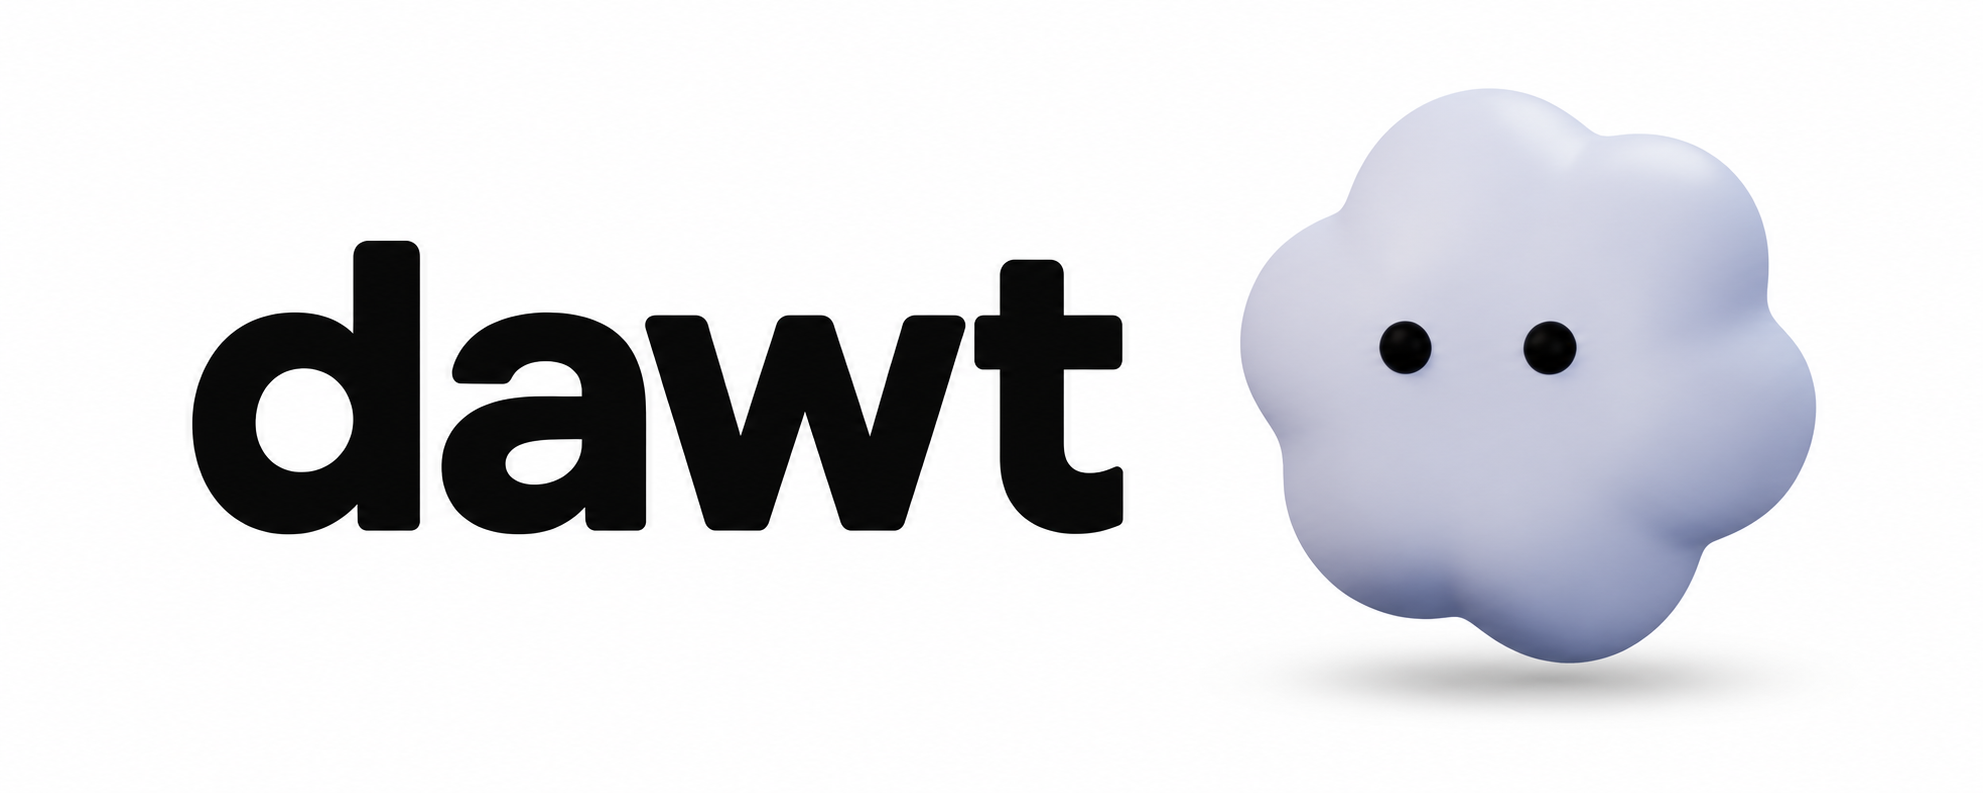
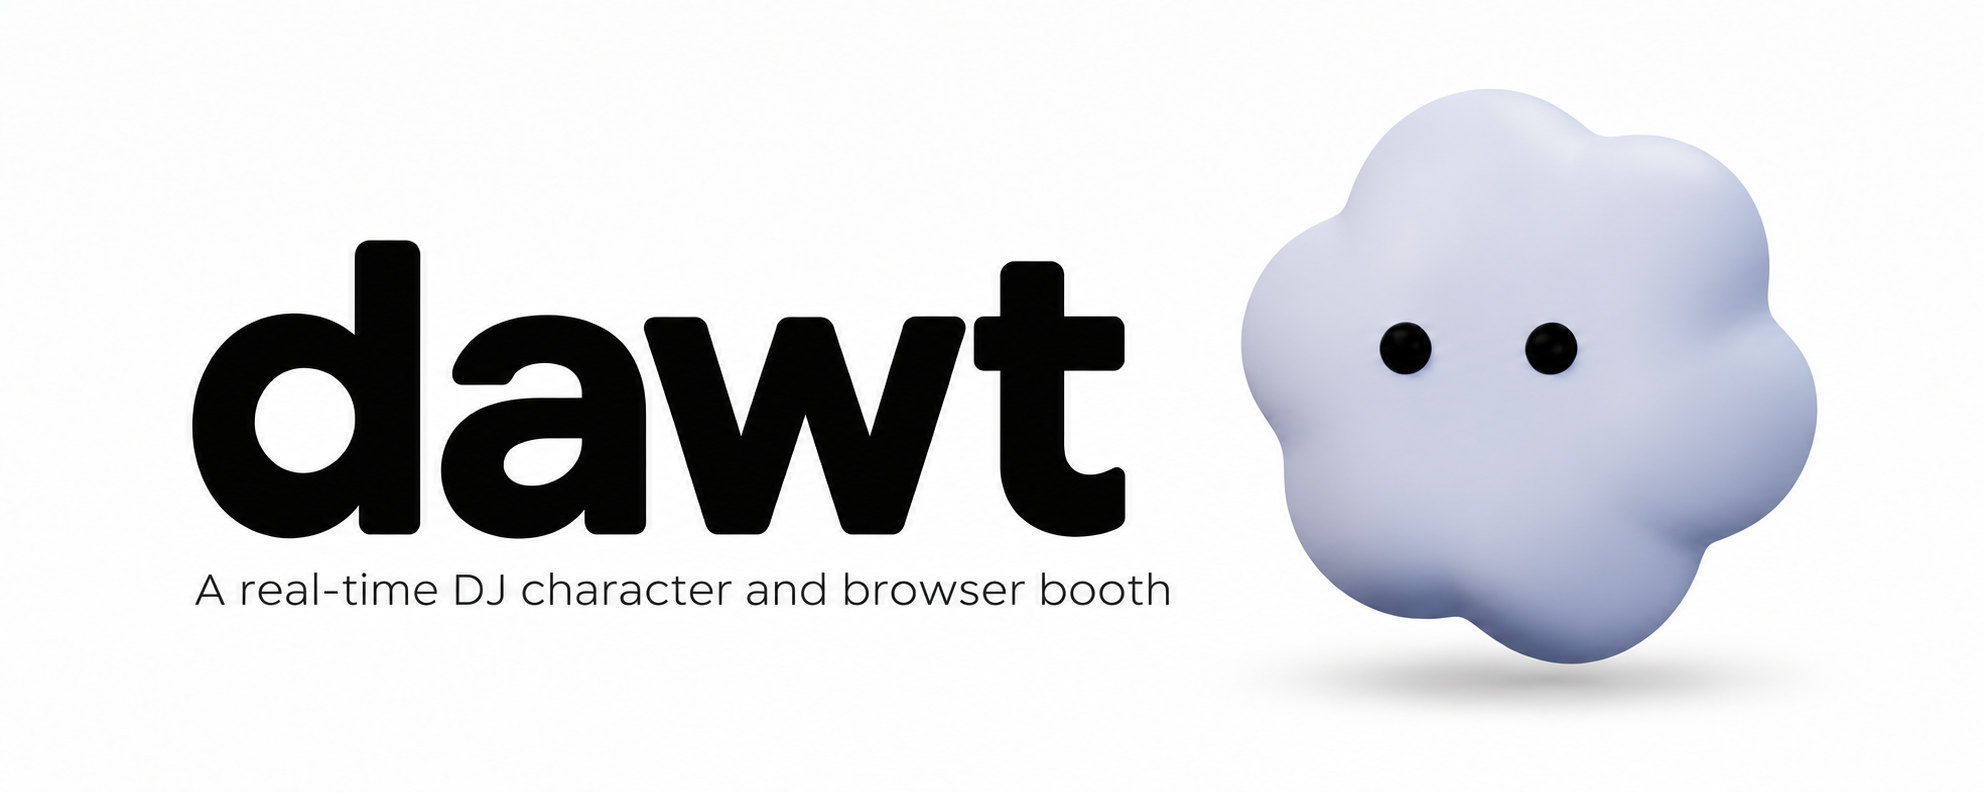
Add the dawt cover subtitle

diff --git a/README.md b/README.md
@@ -1,4 +1,4 @@
-![Lowercase dawt wordmark beside Dot on white](docs/images/dawt-white.png)
+![dawt — A real-time DJ character and browser booth](docs/images/dawt-white.png)
 
 # dawt
 
